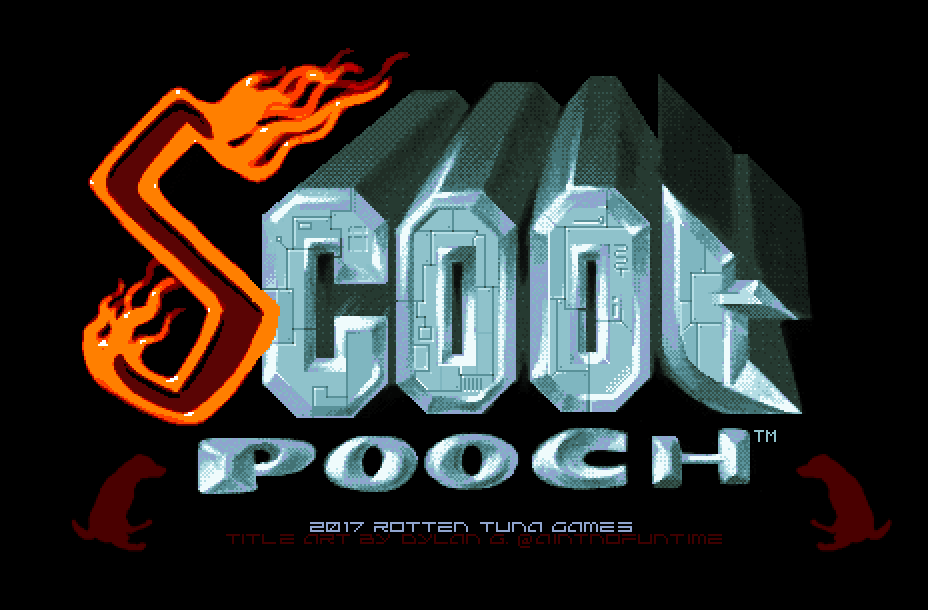
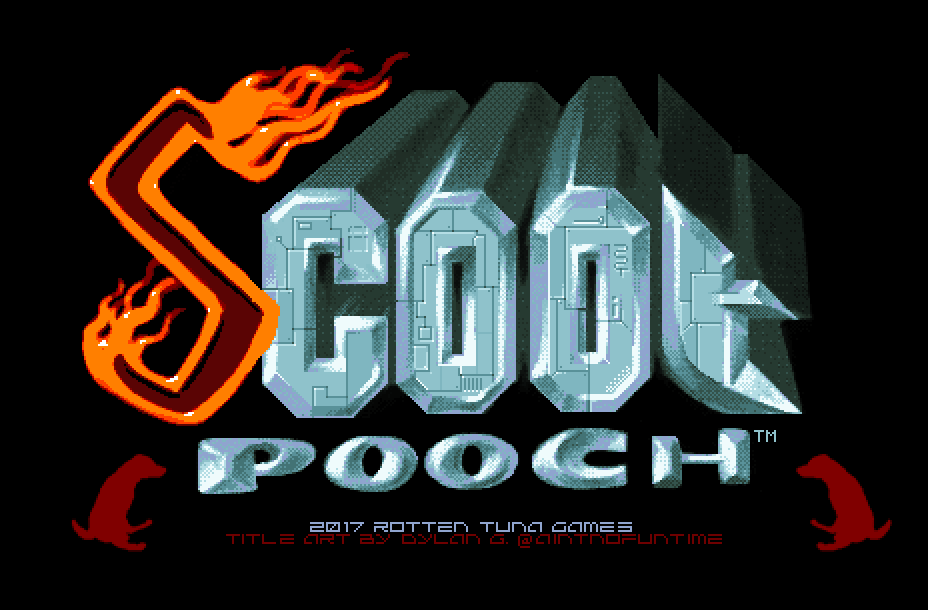
brightened the title art a little bit so it'll maybe look nicer on a screen? Converted the title to 8bit color since python kept freaking out Added more objects to the backyard fixed the bathroom and back yard (not sure when the hell I broke those)

Changed region(s): [[0.25, 0.8721, 0.7812, 0.9033], [0.8438, 0.7475, 0.9688, 0.9033], [0.0625, 0.7475, 0.1875, 0.9033]]

diff --git a/objects/LevelObjects.py b/objects/LevelObjects.py
@@ -115,7 +115,7 @@ class Lamp(LevelObject):
         self.points = 100
         if mirror:
             self.x -= self.image.get_width()
-            self.x_collide_offset = self.image.get_width()-self.width-4
+            self.x_collide_offset = self.image.get_width() - self.width - 4
 
     def update(self, addtl_x, addtl_y):
         if self.image_index >= len(self.images):
@@ -280,3 +280,151 @@ class BookShelf(LevelObject, collide_object):
         _rect.y += self.y + 30
         return _rect
 
+
+class Flower1(LevelObject):
+    breakable = 1
+    broken = None
+
+    width = 30
+    x_collide_offset = 6
+
+    sheet_path = 'objects/flower1.png'
+
+    def __init__(self, init_pos, mirror=False):
+        super().__init__()
+
+        self.images = self.load_sprite_sheet(self.sheet_path, 82, 73, 7, mirror)
+        self.image = self.images[0]
+        self.image_index = 0
+        self.x = init_pos[0]
+        self.y = init_pos[1]
+        self.points = 50
+        if mirror:
+            self.x -= self.image.get_width()
+            self.x_collide_offset = self.image.get_width() - self.width - 4
+
+    def update(self, addtl_x, addtl_y):
+        if self.image_index >= len(self.images):
+            self.broken = 2
+        if self.broken == 1:
+            self.image = self.images[self.image_index]
+            self.image_index += 1
+
+
+class Flower2(LevelObject):
+    breakable = 1
+    broken = None
+
+    width = 30
+    x_collide_offset = 6
+
+    sheet_path = 'objects/flower2.png'
+
+    def __init__(self, init_pos, mirror=False):
+        super().__init__()
+
+        self.images = self.load_sprite_sheet(self.sheet_path, 82, 77, 7, mirror)
+        self.image = self.images[0]
+        self.image_index = 0
+        self.x = init_pos[0]
+        self.y = init_pos[1]
+        self.points = 50
+        if mirror:
+            self.x -= self.image.get_width()
+            self.x_collide_offset = self.image.get_width() - self.width - 4
+
+    def update(self, addtl_x, addtl_y):
+        if self.image_index >= len(self.images):
+            self.broken = 2
+        if self.broken == 1:
+            self.image = self.images[self.image_index]
+            self.image_index += 1
+
+
+class Flower3(LevelObject):
+    breakable = 1
+    broken = None
+
+    width = 30
+    x_collide_offset = 6
+
+    sheet_path = 'objects/flower3.png'
+
+    def __init__(self, init_pos, mirror=False):
+        super().__init__()
+
+        self.images = self.load_sprite_sheet(self.sheet_path, 82, 77, 7, mirror)
+        self.image = self.images[0]
+        self.image_index = 0
+        self.x = init_pos[0]
+        self.y = init_pos[1]
+        self.points = 50
+        if mirror:
+            self.x -= self.image.get_width()
+            self.x_collide_offset = self.image.get_width() - self.width - 4
+
+    def update(self, addtl_x, addtl_y):
+        if self.image_index >= len(self.images):
+            self.broken = 2
+        if self.broken == 1:
+            self.image = self.images[self.image_index]
+            self.image_index += 1
+
+
+class Flower4(LevelObject):
+    breakable = 1
+    broken = None
+
+    width = 30
+    x_collide_offset = 6
+
+    sheet_path = 'objects/flower4.png'
+
+    def __init__(self, init_pos, mirror=False):
+        super().__init__()
+
+        self.images = self.load_sprite_sheet(self.sheet_path, 47, 92, 7, mirror)
+        self.image = self.images[0]
+        self.image_index = 0
+        self.x = init_pos[0]
+        self.y = init_pos[1]
+        self.points = 50
+        if mirror:
+            self.x -= self.image.get_width()
+            self.x_collide_offset = self.image.get_width() - self.width - 4
+
+    def update(self, addtl_x, addtl_y):
+        if self.image_index >= len(self.images):
+            self.broken = 2
+        if self.broken == 1:
+            self.image = self.images[self.image_index]
+            self.image_index += 1
+
+class Grill(LevelObject):
+    breakable = 1
+    broken = None
+
+    width = 30
+    x_collide_offset = 6
+
+    sheet_path = 'objects/grill.png'
+
+    def __init__(self, init_pos, mirror=False):
+        super().__init__()
+
+        self.images = self.load_sprite_sheet(self.sheet_path, 600, 207, 7, mirror)
+        self.image = self.images[0]
+        self.image_index = 0
+        self.x = init_pos[0]
+        self.y = init_pos[1]
+        self.points = 50
+        if mirror:
+            self.x -= self.image.get_width()
+            self.x_collide_offset = self.image.get_width()-self.width-4
+
+    def update(self, addtl_x, addtl_y):
+        if self.image_index >= len(self.images):
+            self.broken = 2
+        if self.broken == 1:
+            self.image = self.images[self.image_index]
+            self.image_index += 1

diff --git a/objects/Room.py b/objects/Room.py
@@ -9,9 +9,11 @@ from objects.Wall import Wall, BathroomWall, BackyardWall
 
 ASSETS_PATH = os.path.join(os.path.dirname(os.path.realpath(__file__)), '..', 'images', 'level_assets')
 
+
 def load_wall():
     # todo: better
     return Wall(0, 0, 50)
+
 
 class Room:
     objects = None
@@ -46,6 +48,7 @@ class Room_One(Room):
         )
         super().__init__(y_position)
 
+
 class Room_Two(Room):
     height = 400
 
@@ -58,6 +61,7 @@ class Room_Two(Room):
         )
         super().__init__(y_position)
 
+
 class Room_Three(Room):
     height = 400
 
@@ -69,17 +73,20 @@ class Room_Three(Room):
         )
         super().__init__(y_position)
 
+
 class Bathroom(Room):
     height = 350
-
     floor_image = os.path.join(ASSETS_PATH, 'bathroom_bg.png')
-    objects = pygame.sprite.Group(
-        Shower((0, 32)),
-        BathroomSink((170, 80)),
-        SinkStuff((170, 73)),
-        Toilet((295, 90)),
-        BathMat((200, 230))
-    )
+
+    def __init__(self, y_position):
+        self.objects = pygame.sprite.Group(
+            Shower((0, 32)),
+            BathroomSink((170, 80)),
+            SinkStuff((170, 73)),
+            Toilet((295, 90)),
+            BathMat((200, 230))
+        )
+        super().__init__(y_position)
 
     def load_wall(self, door_x):
         self.top_wall = BathroomWall(0, self.y_position, door_x)
@@ -89,11 +96,14 @@ class Backyard(Room):
     height = 500
 
     floor_image = os.path.join(ASSETS_PATH, 'backyard_bg.png')
-    objects = pygame.sprite.Group(
-        Gnome((300, 230)),
-        Gnome((280, 270)),
-        BirdBath((430, 300)),
-    )
+
+    def __init__(self, y_position):
+        self.objects = pygame.sprite.Group(
+            Gnome((300, 230)),
+            Gnome((280, 270)),
+            BirdBath((430, 300)),
+        )
+        super().__init__(y_position)
 
     def load_wall(self, door_x):
         self.top_wall = BackyardWall(0, self.y_position, door_x)

diff --git a/debugcontrols.py b/debugcontrols.py
@@ -1,4 +1,4 @@
-skip_intro = False
+skip_intro = True
 show_velocity = False
 draw_rects = False
 skip_countdown = False
